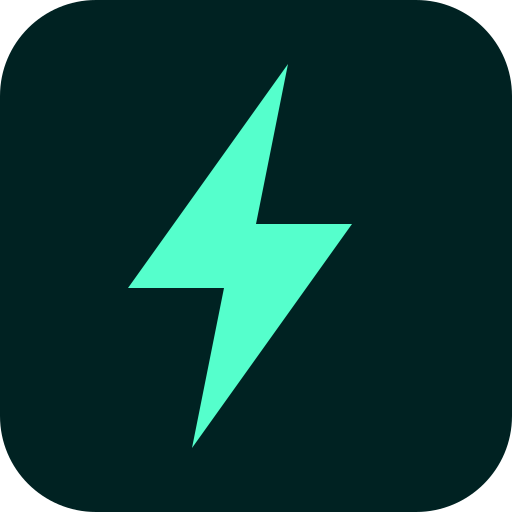
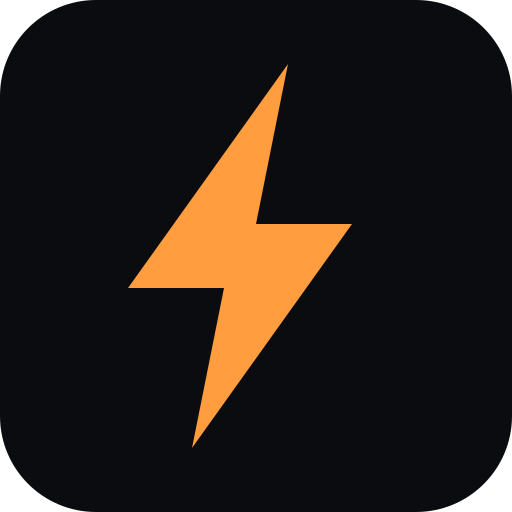
feat: make wallet orange color (#28)

Changed region(s): [[0.25, 0.125, 0.6875, 0.875]]

diff --git a/src/styles/background.scss b/src/styles/background.scss
@@ -1,25 +1,25 @@
-// Calm, mint-toned backdrop: soft glows of the wallet's own accent color
-// (#5fc) drifting over a dark teal base (#002222, matching style.scss's
+// Calm, amber-toned backdrop: soft glows of the wallet's own accent color
+// (#ff9d3f) drifting over a dark ink base (#0a0c10, matching style.scss's
 // $bg/$font-color) - low-contrast and static, unlike a busy repeating
 // pattern, so it reads as ambient depth rather than something to look at.
 body {
   background:
     radial-gradient(
       ellipse 70% 50% at 15% -10%,
-      rgba(#5fc, 0.1),
+      rgba(#ff9d3f, 0.1),
       transparent 60%
     ),
     radial-gradient(
       ellipse 60% 45% at 100% 15%,
-      rgba(#5fc, 0.07),
+      rgba(#ff9d3f, 0.07),
       transparent 60%
     ),
     radial-gradient(
       ellipse 80% 60% at 50% 115%,
-      rgba(#5fc, 0.08),
+      rgba(#ff9d3f, 0.08),
       transparent 65%
     ),
-    linear-gradient(160deg, #001616 0%, #002222 55%, #001a1a 100%);
+    linear-gradient(160deg, #08090c 0%, #0a0c10 55%, #060708 100%);
   // pin the gradient to the viewport at all times, sized to fill it exactly,
   // instead of scrolling with (and being sized to) the page's content box
   background-attachment: fixed;

diff --git a/src/styles/style.scss b/src/styles/style.scss
@@ -1,11 +1,11 @@
 @use 'sass:color';
 
-// same design language as lnurl_server's frontend, shifted to a mint/teal
-// palette so wallet and server are instantly distinguishable
-$bg: #002222;
-$accent-base: #044;
+// same ink base as lnurlcash.com, shifted to the wallet's own amber/orange
+// accent so mint, wallet and vault are instantly distinguishable
+$bg: #0a0c10;
+$accent-base: #3d2408;
 $transparency: 0.6;
-$font-color: #5fc;
+$font-color: #ff9d3f;
 $font-size: 16px;
 $font: 'Noto Sans', sans-serif;
 
@@ -306,15 +306,17 @@ a:where(.icon-btn, .link-btn) {
   margin: 10px 0;
 }
 
+// gold, not the wallet's own amber accent, so a warning still reads as
+// "notice" instead of blending into ordinary brand-colored UI
 .warning {
-  color: #f80;
+  color: #e4c567;
   padding: 10px 14px;
   margin: 10px 0;
   border-radius: 5px;
-  background: rgba(#f80, 0.12);
-  border: 1px solid rgba(#f80, 0.5);
+  background: rgba(#e4c567, 0.12);
+  border: 1px solid rgba(#e4c567, 0.5);
   a {
-    color: #f80;
+    color: #e4c567;
   }
 }
 
@@ -1072,7 +1074,7 @@ body.dragging-note {
 }
 
 .bearer-pending {
-  color: #f80;
+  color: #e4c567;
   font-size: 0.8em;
 }
 

diff --git a/index.html b/index.html
@@ -3,7 +3,7 @@
   <head>
     <meta charset="utf-8" />
     <meta name="viewport" content="width=device-width, initial-scale=1" />
-    <meta name="theme-color" content="#002222" />
+    <meta name="theme-color" content="#0a0c10" />
     <!-- this wallet fetches arbitrary mint URLs cross-origin; don't leak
     the hosting origin to every one of them via Referer (the Origin header
     on CORS requests is unaffected by this and can't be removed here) -->

diff --git a/vite.config.ts b/vite.config.ts
@@ -83,8 +83,8 @@ export default defineConfig({
         start_url: '.',
         scope: '.',
         display: 'standalone',
-        background_color: '#002222',
-        theme_color: '#002222',
+        background_color: '#0a0c10',
+        theme_color: '#0a0c10',
         icons: [
           {src: 'icon-192.png', sizes: '192x192', type: 'image/png'},
           {src: 'icon-512.png', sizes: '512x512', type: 'image/png'},
